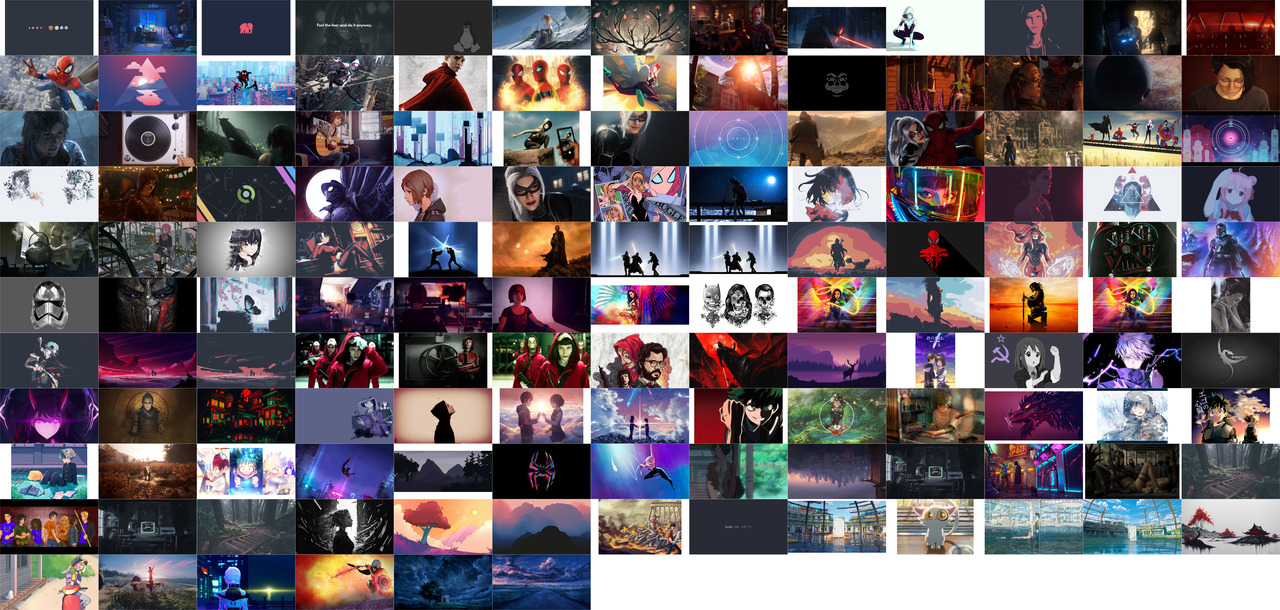
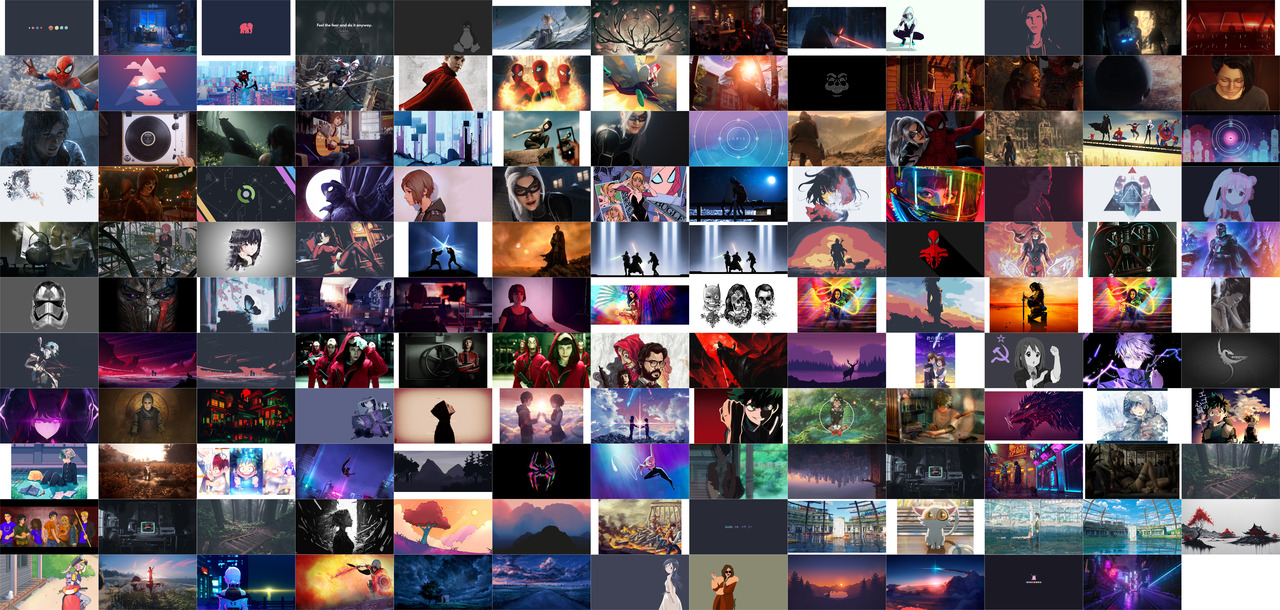
Livin' off borrowed time, the clock ticks faster
an automated commit

Changed region(s): [[0.4375, 0.9033, 0.9375, 1.0]]

diff --git a/README.md b/README.md
@@ -1,0 +1,12 @@
+# My Wallpapers
+
+![](./banner.jpg)
+
+# Notes
+
+- All wallpapers are 1920x1080 jpegs
+- Naming conventions: `sequence.jpg`
+- Banner generated with `montage *.jpg  -geometry 1280x720+1+1 banner.jpg`
+- Banner's size is reduced using `convert -density 600 -resize 1280x720 banner.jpg image2.jpg && mv image2.jpg banner.jpg`
+- Obviously I don't hold the copy right to any of these
+
